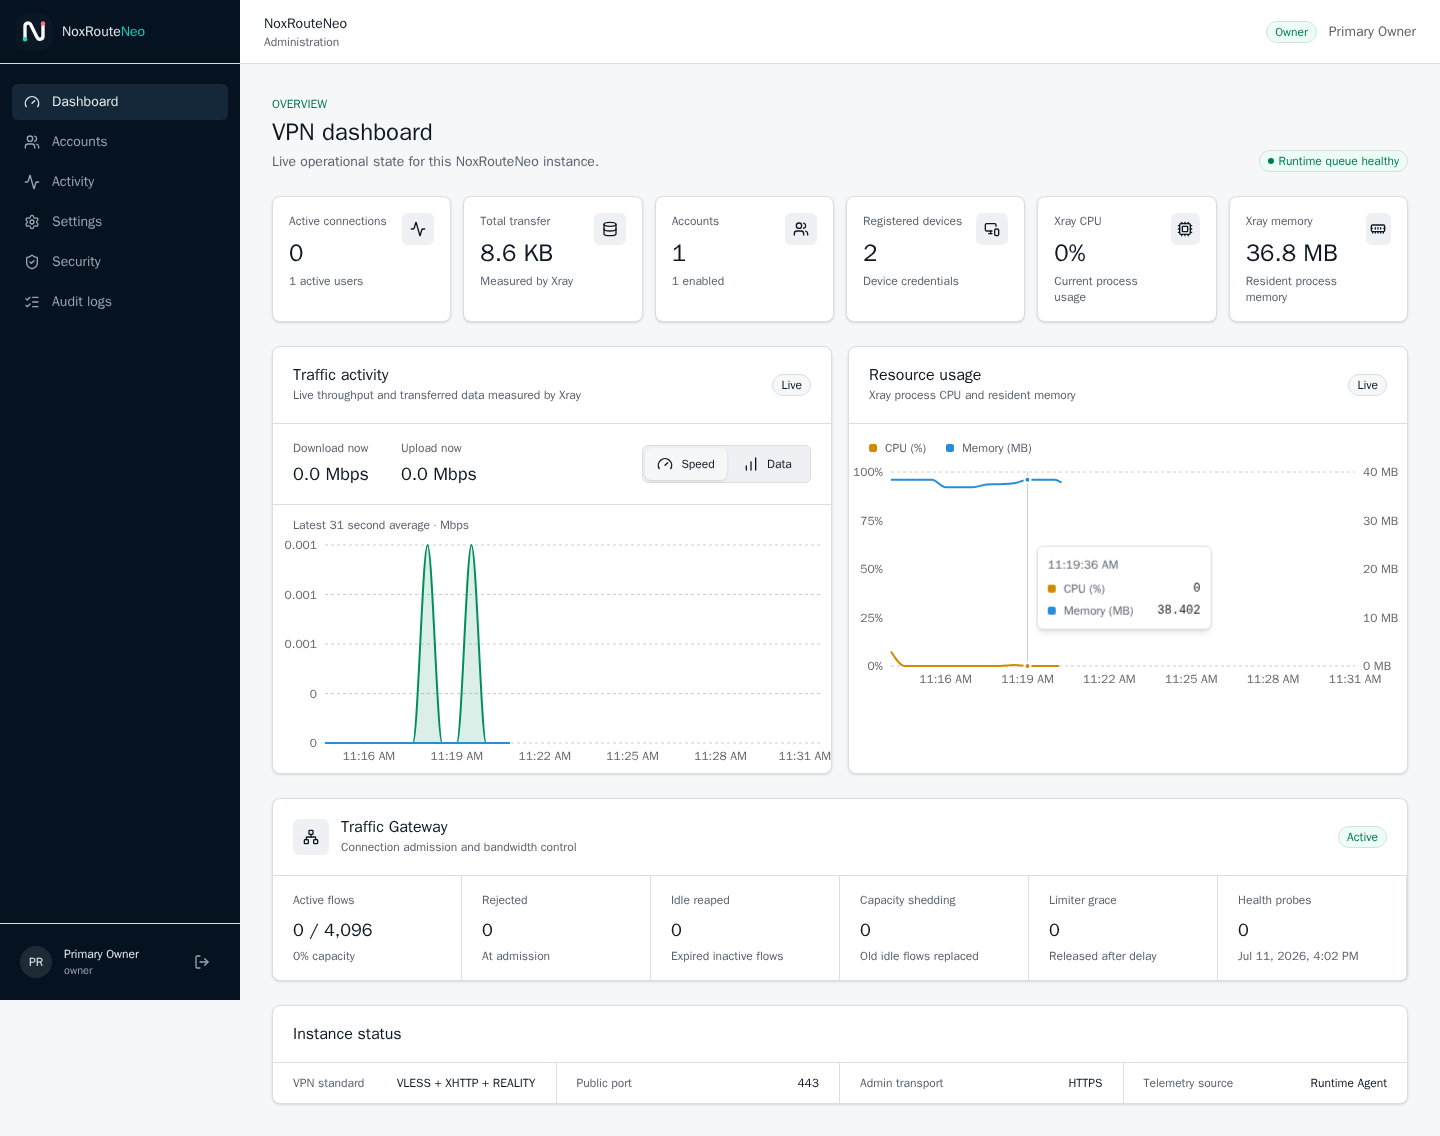
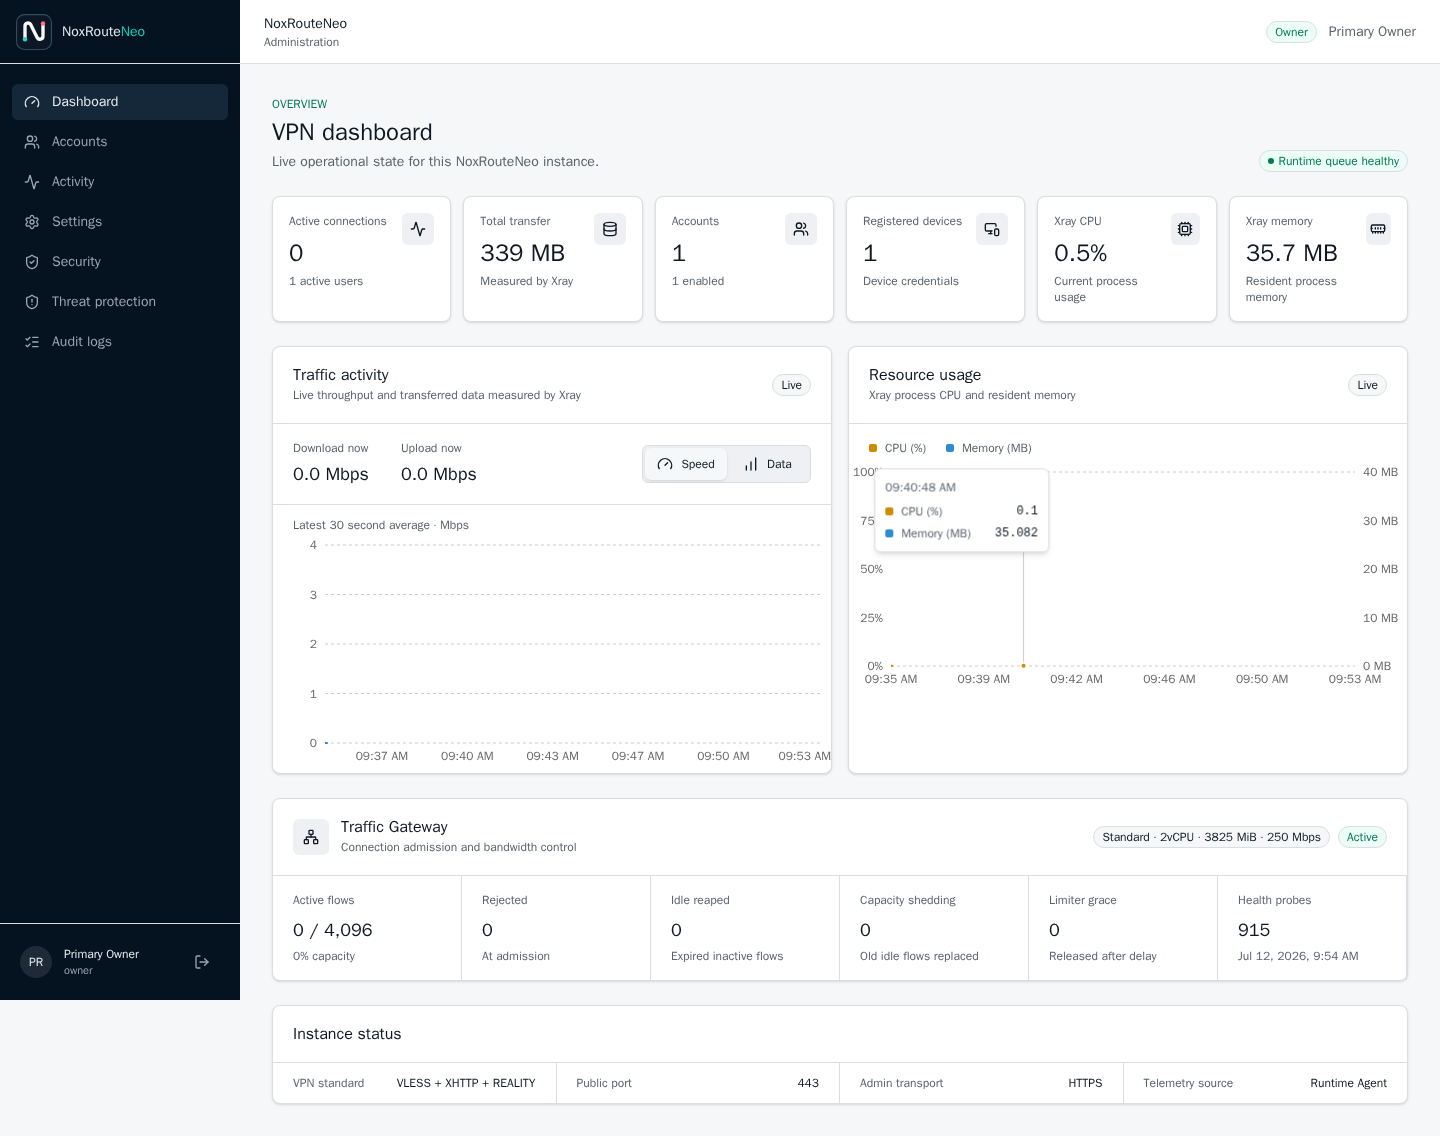
docs: document secure device onboarding

diff --git a/apps/web/e2e/auth.spec.ts b/apps/web/e2e/auth.spec.ts
@@ -47,7 +47,10 @@ test("authenticates the local owner and renders the dashboard", async ({
 
   await page.goto("/admin/activity");
   await expect(page.getByRole("heading", { name: "Activity" })).toBeVisible();
-  await expect(page.getByText("Test iPhone")).toBeVisible();
+  await expect(page.getByRole("columnheader", { name: "User" })).toBeVisible();
+  await expect(
+    page.getByRole("columnheader", { name: "Device" }),
+  ).toBeVisible();
 
   await page.goto("/admin");
 
@@ -77,7 +80,9 @@ test("renders the user dashboard, devices and connection access", async ({
 
   await page.goto("/portal/devices");
   await expect(page.getByRole("heading", { name: "Devices" })).toBeVisible();
-  await expect(page.getByText("Test iPhone")).toBeVisible();
+  await expect(
+    page.getByRole("button", { name: "Register device" }),
+  ).toBeVisible();
 
   await page.goto("/portal/connection");
   await expect(page.getByRole("heading", { name: "Connection" })).toBeVisible();

diff --git a/apps/web/src/components/auth/sign-in-form.tsx b/apps/web/src/components/auth/sign-in-form.tsx
@@ -40,8 +40,7 @@ export function SignInForm() {
       return;
     }
 
-    router.push("/");
-    router.refresh();
+    window.location.assign("/");
   }
 
   return (

diff --git a/README.md b/README.md
@@ -118,12 +118,14 @@ The Docker socket, PostgreSQL port, Xray API and internal control APIs are not e
 | Architecture     | `amd64` or `arm64`                                    |
 | Access           | `root` or a user with `sudo`                          |
 | Network          | Public IPv4 address                                   |
-| Memory           | 1 GiB RAM; the installer can add temporary build swap |
-| Disk             | 8 GiB total and 4 GiB free; 12 GiB total recommended  |
+| Memory           | 2 GiB RAM for the current source build                 |
+| Disk             | 12 GiB total and 6 GiB free; 20 GiB recommended        |
 | Public TCP ports | `80`, `443`, `8443`                                   |
 | DNS              | One DuckDNS subdomain and its account token           |
 
 Port `443` is reserved for Xray. The web interface uses `8443` so REALITY does not compete with the HTTPS reverse proxy.
+
+The running stack can support a small test workload on 1 GiB, but compiling the Next.js image from source on that amount of memory is slow and unreliable. Prebuilt GHCR images will remove this build-time requirement in a later release.
 
 ## One-command installation
 
@@ -174,6 +176,8 @@ All accounts use the same sign-in URL. Better Auth redirects each role to the co
 
 Web sessions expire after one hour. Administrators cannot promote other administrators, and only the owner can reset an administrator password.
 
+`Active sessions` in the Security page means active web sign-ins, not VPN tunnels. Their public source IP addresses link to a KeyCDN geolocation lookup. Per-device VPN transfer, connection time and sampled active connections are shown in `Activity`; NoxRouteNeo does not enable destination-level Xray access logging just to recover VPN source IPs.
+
 ## Connect a device with INCY
 
 Each phone receives a separate subscription credential. The subscription URL is the connection string; NoxRouteNeo does not expose the raw VLESS credential in the user portal because a raw VLESS string cannot be tied to physical hardware.
@@ -181,12 +185,23 @@ Each phone receives a separate subscription credential. The subscription URL is 
 1. The administrator creates a VPN user and sets its quota, expiry, speed and maximum number of devices.
 2. The user signs in through the same web URL and opens `Devices`.
 3. The user creates a device, names it and selects `iPhone / iPad`, `Android` or `Desktop` plus a connection profile.
+
+<p align="center">
+  <img src="docs/assets/register-device.png" alt="Registering an iPhone with the Balanced connection profile in the NoxRouteNeo user portal" width="1200">
+</p>
+
 4. In INCY, the user enables HWID sharing for subscription requests.
 5. The user opens `Connection`, scans the QR code with INCY or copies the subscription URL into INCY.
-6. INCY refreshes the subscription, displays its latency and binds that credential to the phone HWID.
+6. INCY refreshes the subscription, binds that credential to the phone HWID and can measure the endpoint latency.
 7. The user starts the VPN. To move the credential to another phone, the old device must be revoked and recreated in NoxRouteNeo.
 
+<p align="center">
+  <img src="docs/assets/user-connection.png" alt="Device-bound INCY subscription QR code and URL in the NoxRouteNeo user portal" width="1200">
+</p>
+
 The first valid INCY refresh owns the credential. A later refresh with another HWID receives `403`. NoxRouteNeo stores only an HMAC digest of the HWID, plus the reported platform/model and last subscription IP. This prevents reuse of the same subscription QR in the normal INCY flow; it cannot stop a compromised client from extracting and copying the underlying VLESS credential.
+
+The subscription response sends INCY `sort-order: ping`, which asks the application to test and order endpoints by latency. Latency is measured by INCY from the phone's current network; the server cannot inject a truthful mobile latency value. Because NoxRouteNeo currently publishes one endpoint, some INCY views show a single ping only after a refresh or connection test.
 
 ## Connection profiles
 